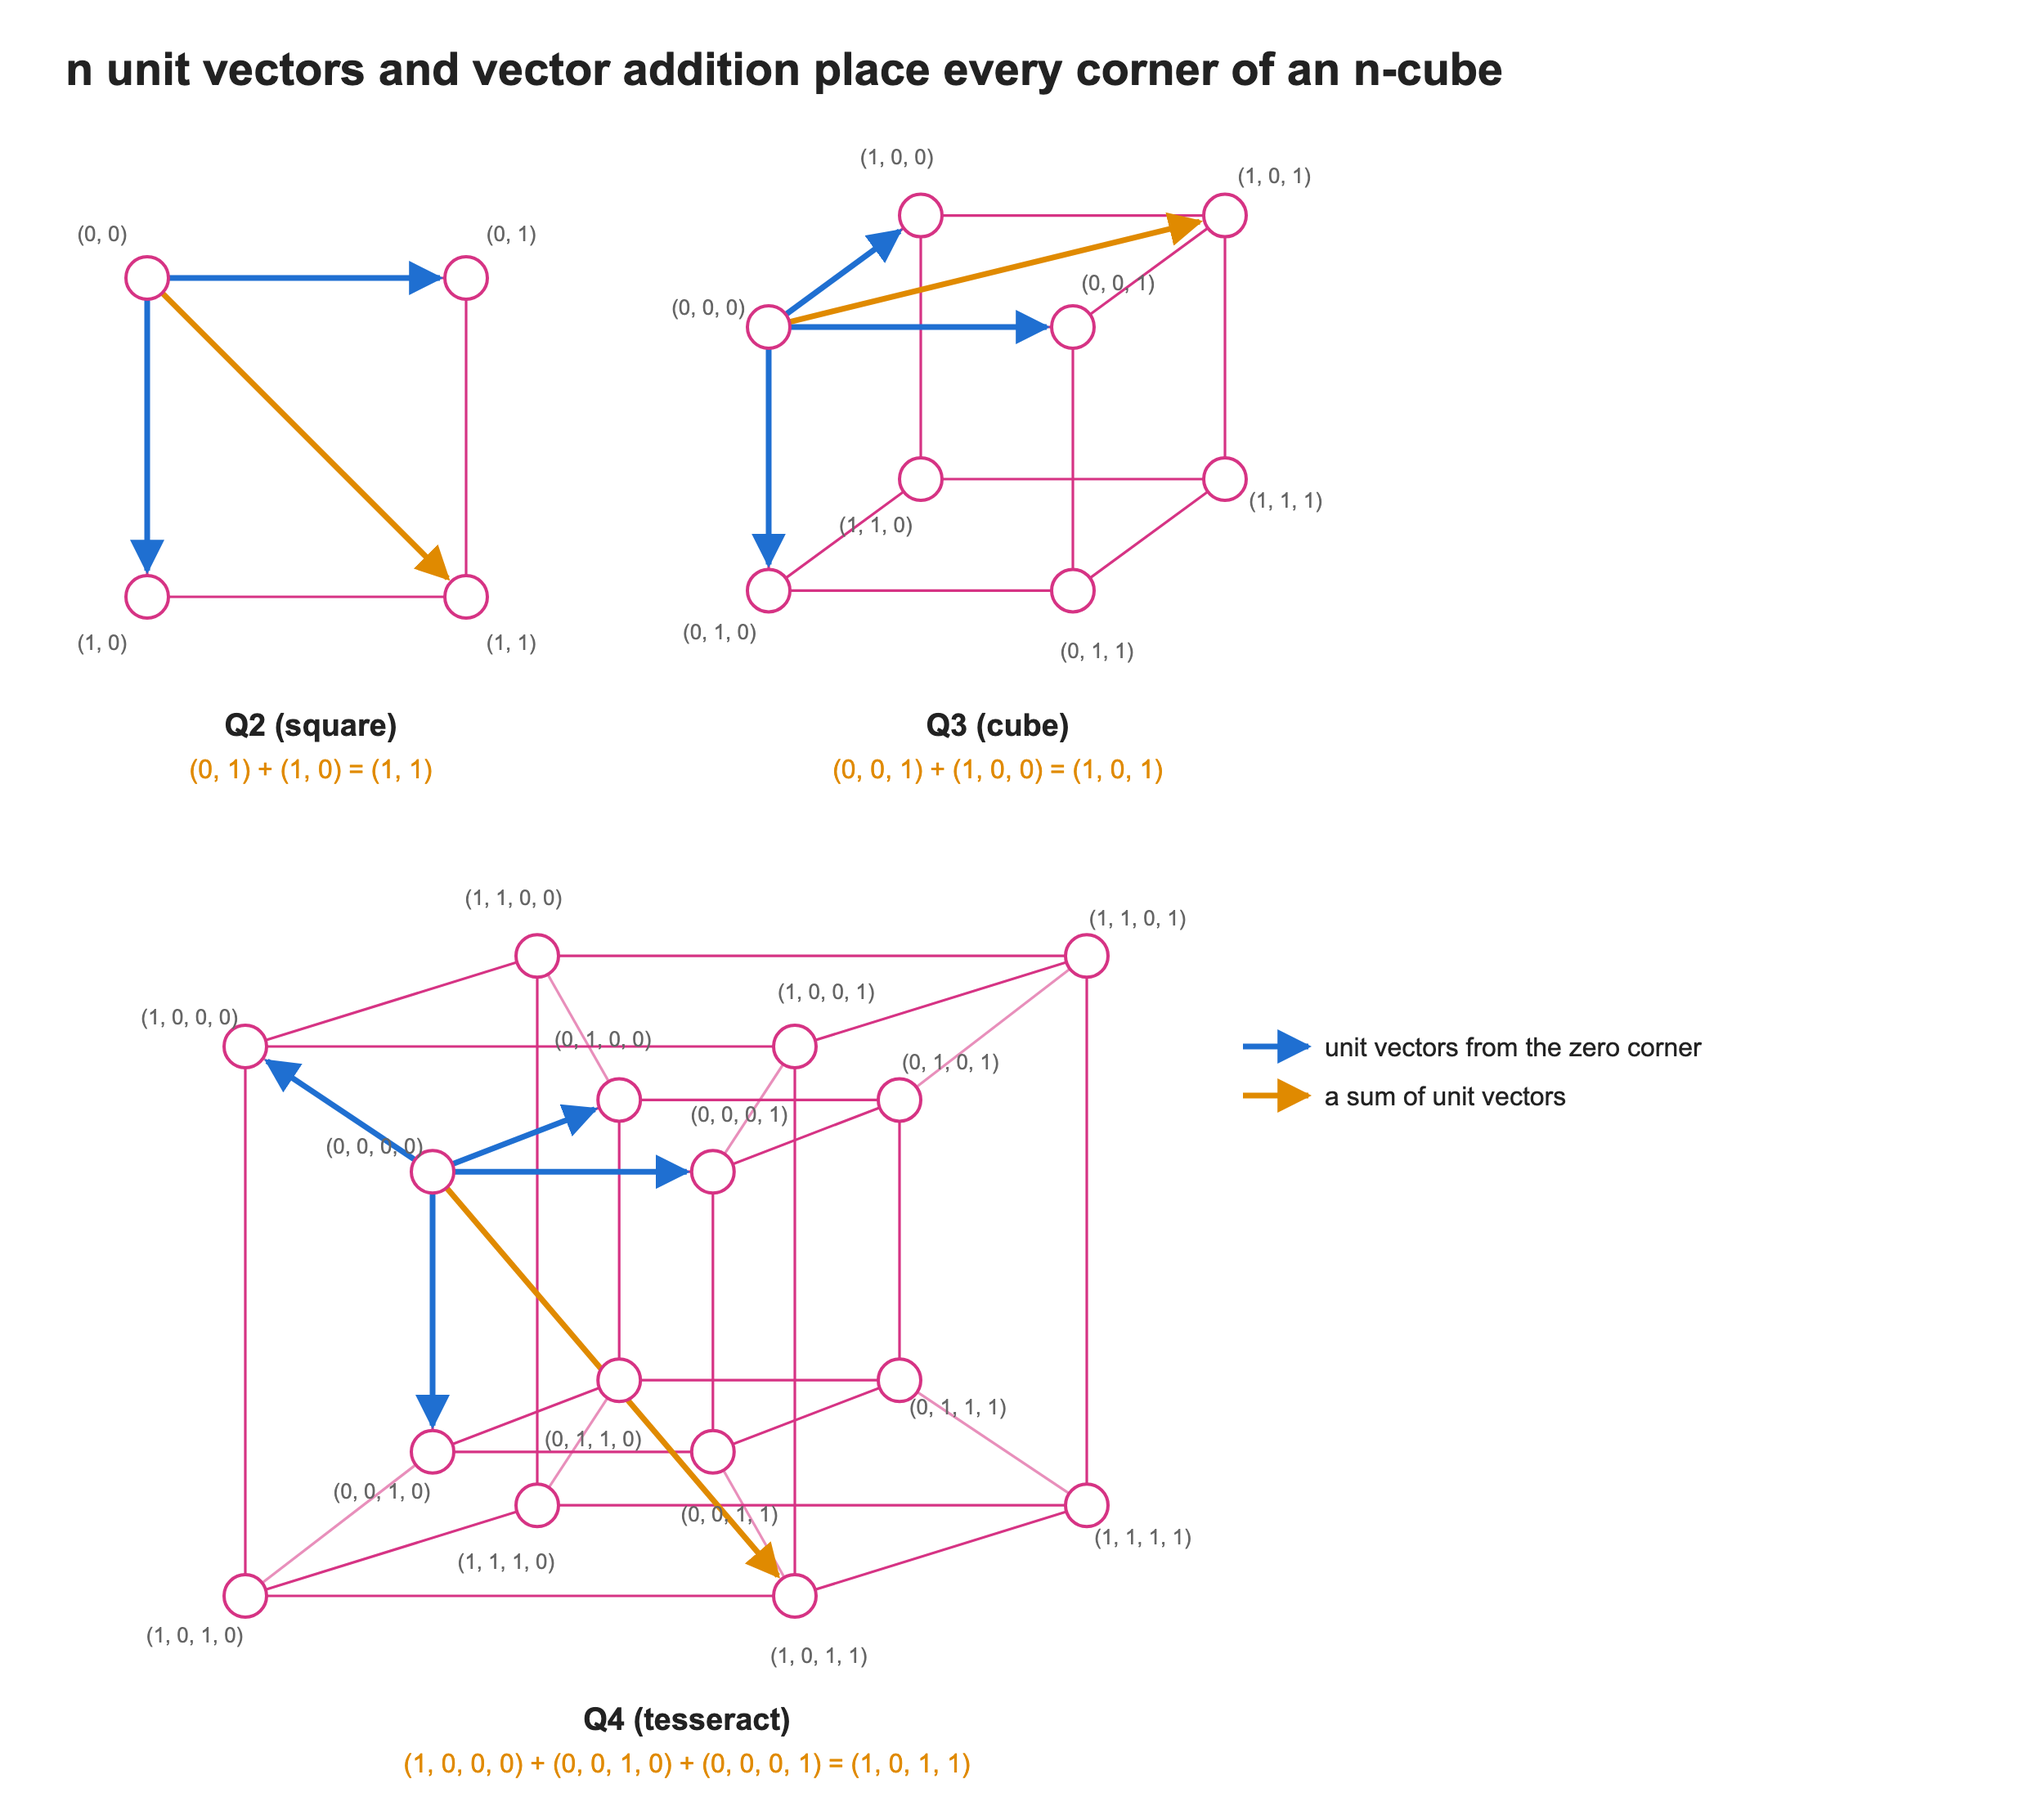
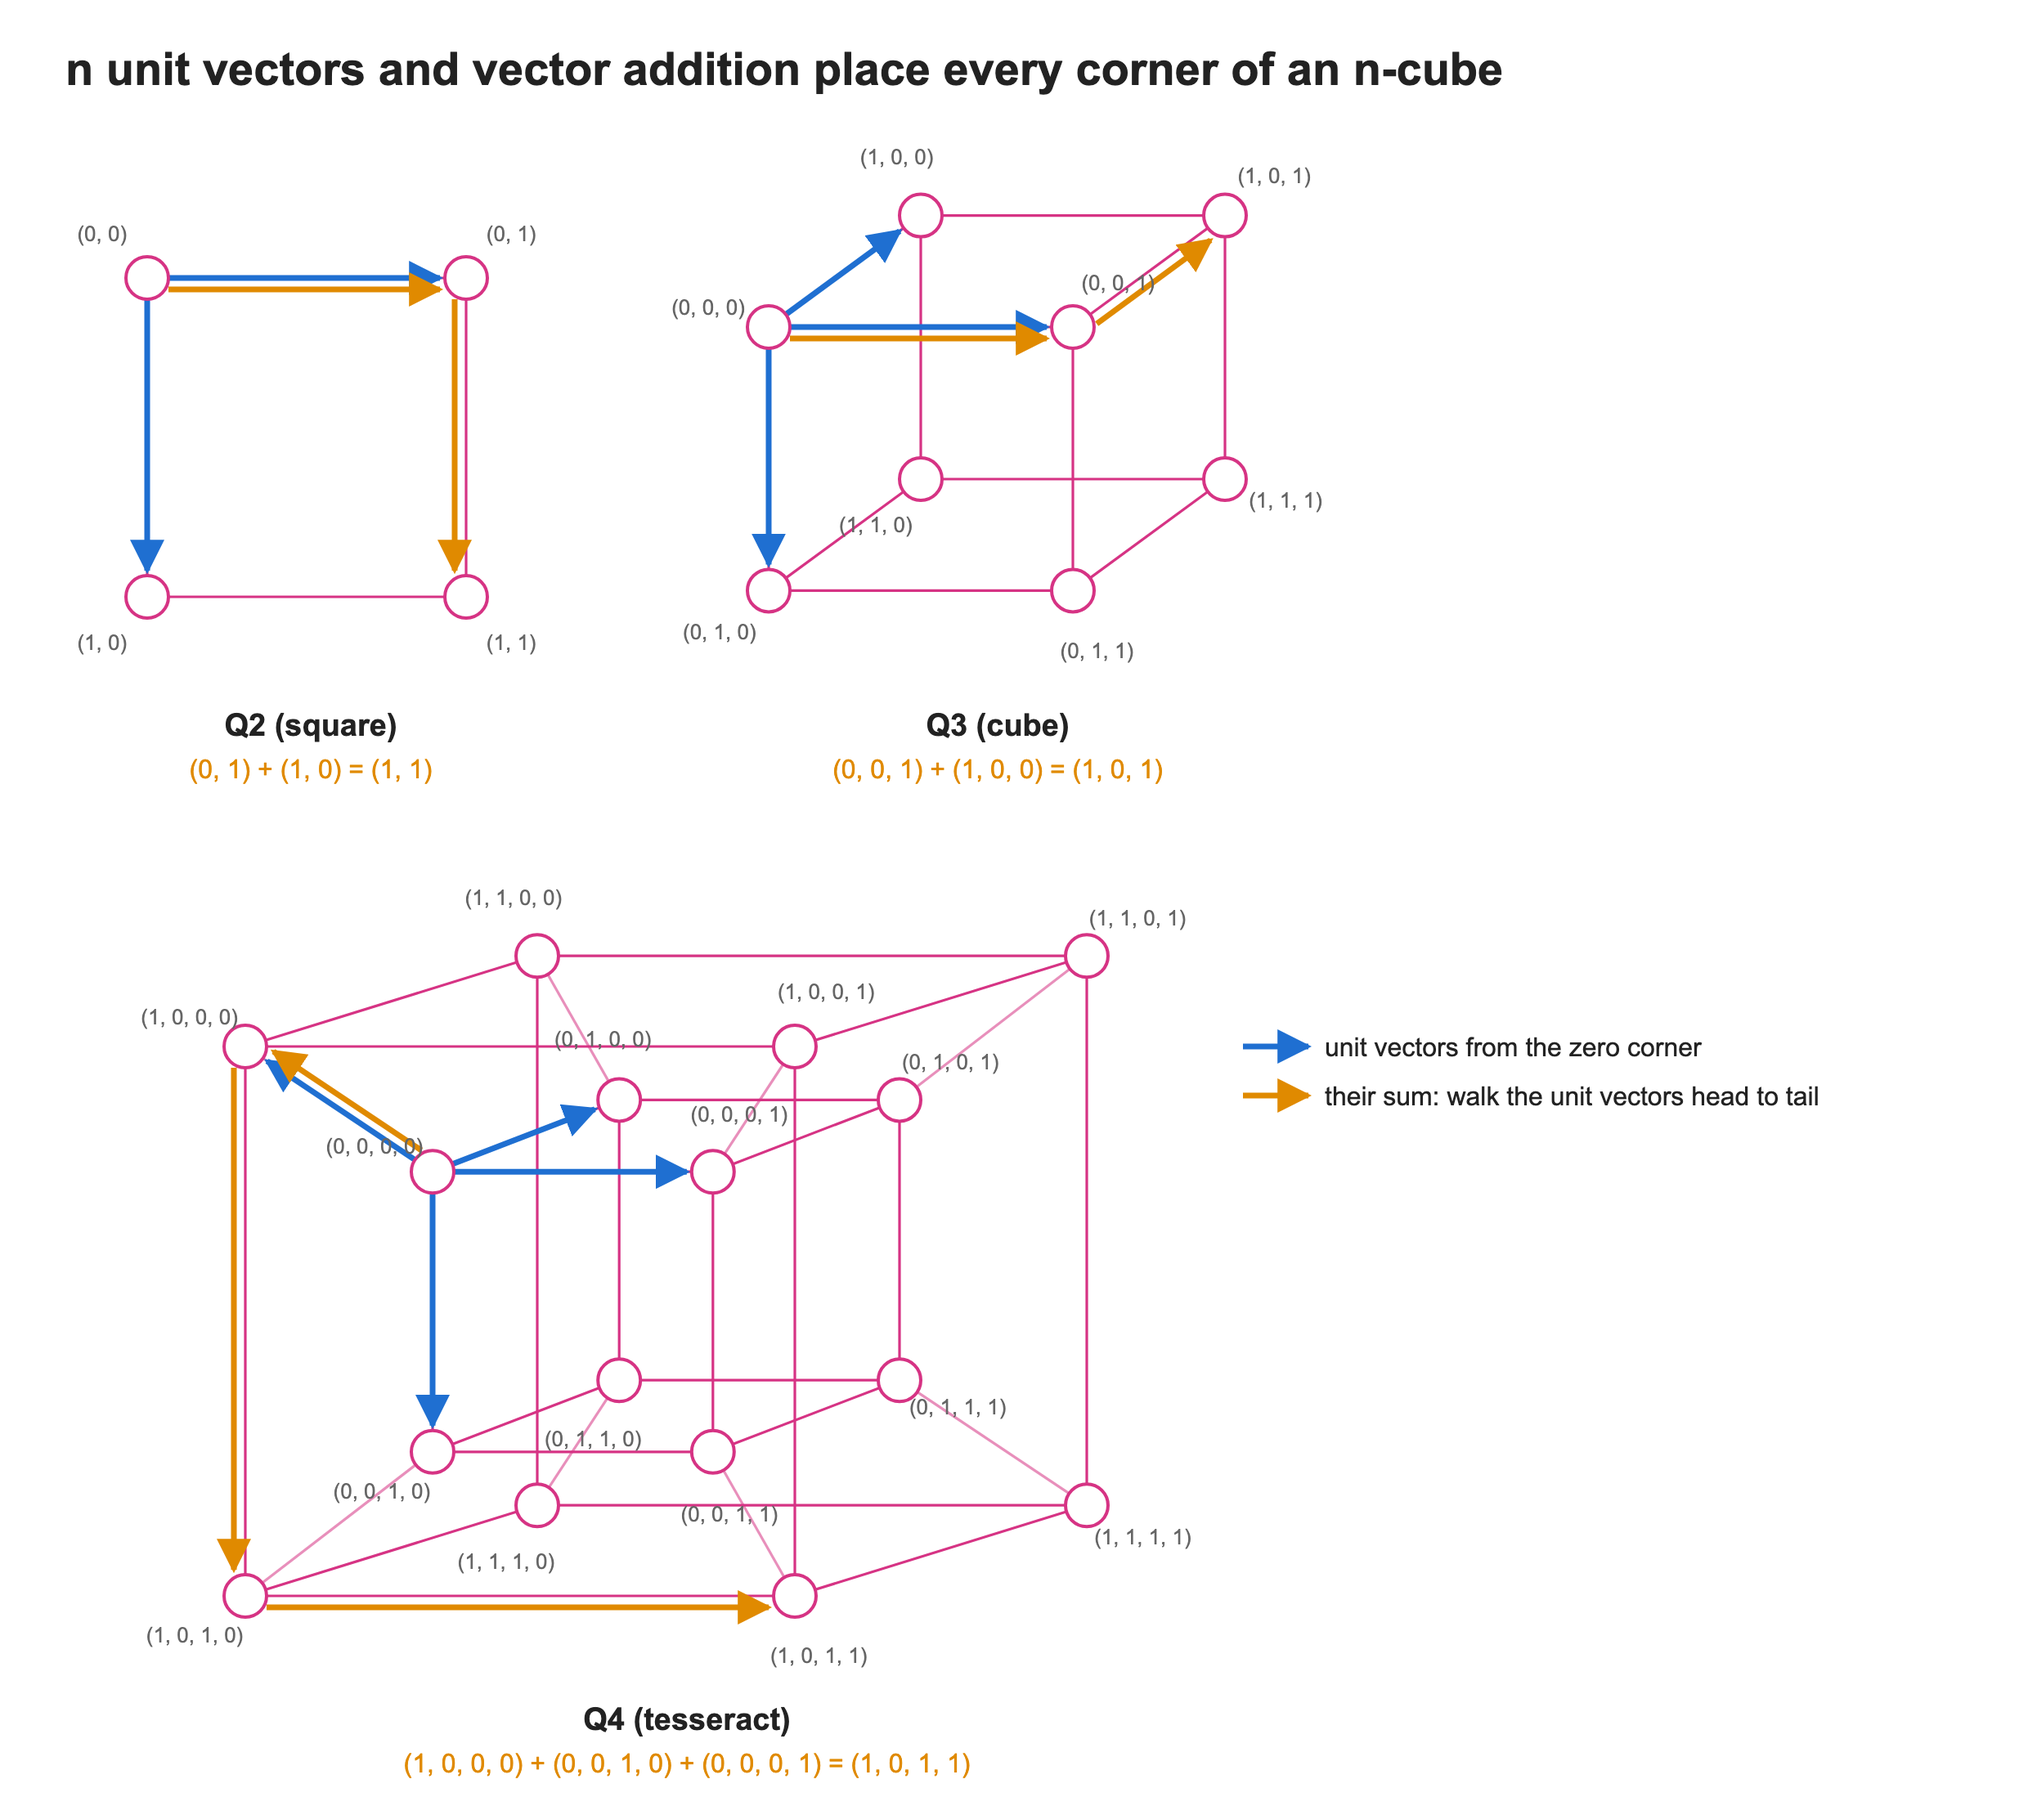
Part 1 figure 4: draw vector sums as walks along the edges
The sum was a straight arrow from the zero corner. In the tesseract
that diagonal cut through the inner cube and didn't show the three
unit steps. Each sum is now drawn head to tail along the hypercube's
own edges, e.g. 0000 -> 1000 -> 1010 -> 1011, offset slightly so the
unit vectors underneath stay visible.

diff --git a/posts/2013-04-01-hamming-hypercube/source/p1hyper_figs.py b/posts/2013-04-01-hamming-hypercube/source/p1hyper_figs.py
@@ -28,8 +28,14 @@ def simple_cube(ox, oy, s, dims, removed=False, unit=False, sum_to=None, labels=
     if unit:
         for k in range(dims):
             out.append(arrow(pos[0], pos[1 << k], ARROW, 'ua', r))
-    if sum_to is not None:
-        out.append(arrow(pos[0], pos[sum_to], SUM, 'sa', r))
+    if sum_to is not None:   # walk the unit vectors head to tail, along the cube's own edges
+        at, off = 0, 7
+        for step in sum_to:
+            p, q = pos[at], pos[at | step]
+            dx, dy = q[0] - p[0], q[1] - p[1]; ln = math.hypot(dx, dy)
+            ox_, oy_ = -dy / ln * off, dx / ln * off      # shift sideways so blue arrows stay visible
+            out.append(arrow((p[0] + ox_, p[1] + oy_), (q[0] + ox_, q[1] + oy_), SUM, 'sa', r))
+            at |= step
     for c in range(n):
         x, y = pos[c]
         if removed and c == 0:
@@ -59,9 +65,9 @@ open("fig3.svg", "w").write(svg(1240, 1045, body))
 
 # ---------- figure 4: Q2, Q3, Q4 from unit vectors ----------
 body = defs + text(40, 52, "n unit vectors and vector addition place every corner of an n-cube", size=28, weight=700, anchor='start')
-body += simple_cube(90, 170, 0.75, 2, unit=True, sum_to=0b11, r=13) + text(190, 450, "Q2 (square)", size=19, weight=700) + text(190, 476, "(0, 1) + (1, 0) = (1, 1)", size=16, color=SUM)
-body += simple_cube(470, 200, 0.62, 3, unit=True, sum_to=0b101, r=13) + text(610, 450, "Q3 (cube)", size=19, weight=700) + text(610, 476, "(0, 0, 1) + (1, 0, 0) = (1, 0, 1)", size=16, color=SUM)
-body += simple_cube(150, 640, 0.6, 4, unit=True, sum_to=0b1011, r=13) + text(420, 1058, "Q4 (tesseract)", size=19, weight=700) + text(420, 1084, "(1, 0, 0, 0) + (0, 0, 1, 0) + (0, 0, 0, 1) = (1, 0, 1, 1)", size=16, color=SUM)
+body += simple_cube(90, 170, 0.75, 2, unit=True, sum_to=[0b01, 0b10], r=13) + text(190, 450, "Q2 (square)", size=19, weight=700) + text(190, 476, "(0, 1) + (1, 0) = (1, 1)", size=16, color=SUM)
+body += simple_cube(470, 200, 0.62, 3, unit=True, sum_to=[0b001, 0b100], r=13) + text(610, 450, "Q3 (cube)", size=19, weight=700) + text(610, 476, "(0, 0, 1) + (1, 0, 0) = (1, 0, 1)", size=16, color=SUM)
+body += simple_cube(150, 640, 0.6, 4, unit=True, sum_to=[0b1000, 0b0010, 0b0001], r=13) + text(420, 1058, "Q4 (tesseract)", size=19, weight=700) + text(420, 1084, "(1, 0, 0, 0) + (0, 0, 1, 0) + (0, 0, 0, 1) = (1, 0, 1, 1)", size=16, color=SUM)
 body += f"<line x1='760' y1='640' x2='800' y2='640' stroke='{ARROW}' stroke-width='3.5' marker-end='url(#ua)'/>" + text(810, 646, "unit vectors from the zero corner", size=16, anchor='start')
-body += f"<line x1='760' y1='670' x2='800' y2='670' stroke='{SUM}' stroke-width='3.5' marker-end='url(#sa)'/>" + text(810, 676, "a sum of unit vectors", size=16, anchor='start')
+body += f"<line x1='760' y1='670' x2='800' y2='670' stroke='{SUM}' stroke-width='3.5' marker-end='url(#sa)'/>" + text(810, 676, "their sum: walk the unit vectors head to tail", size=16, anchor='start')
 open("fig4.svg", "w").write(svg(1240, 1110, body))
